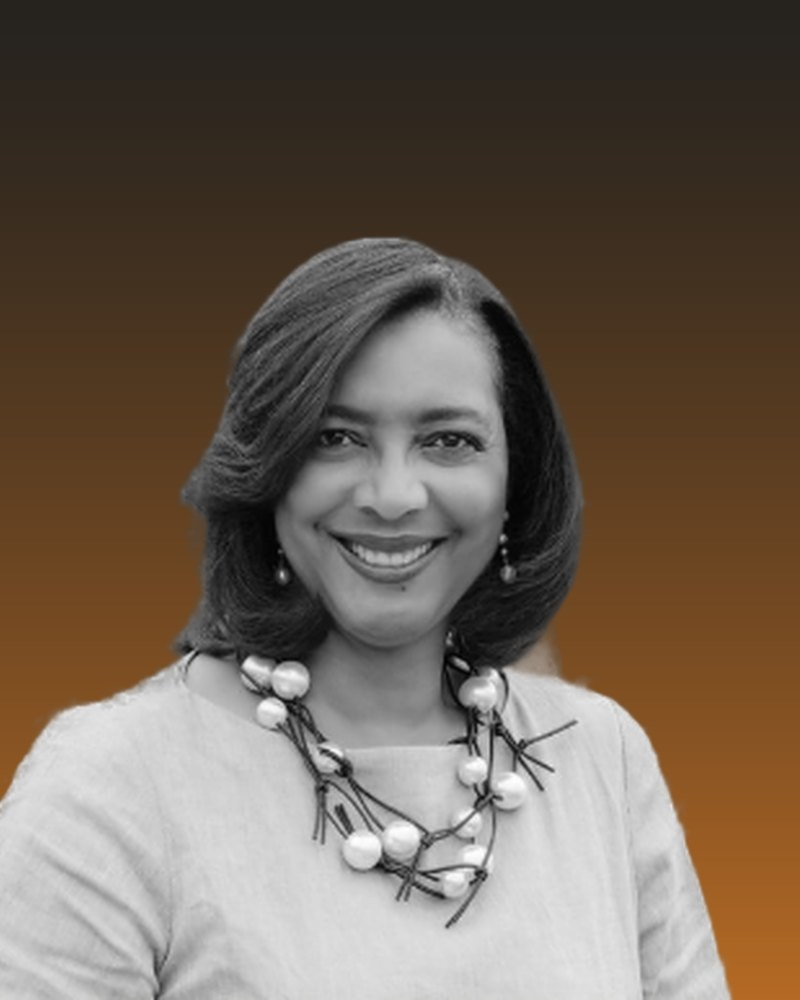
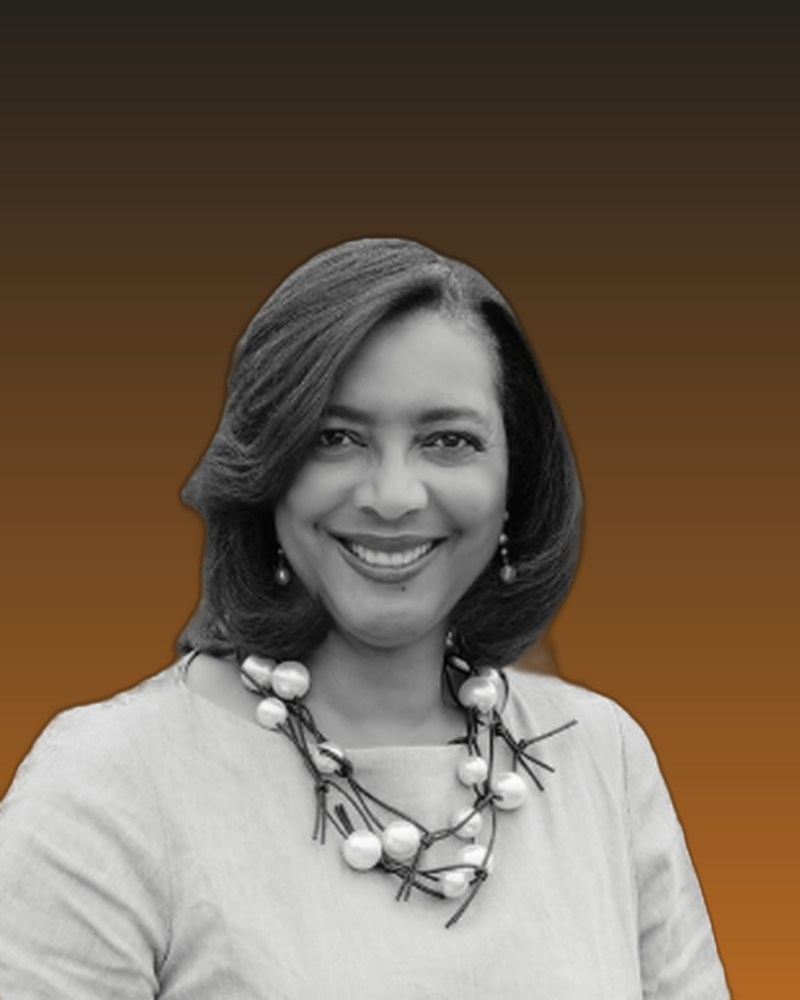
Hosts: re-trace Carmen/Carver edges, enlarge Chandler & Carver 15%; reorder advisors for inclusive mix; memory photos desaturate with color on hover

diff --git a/index.html b/index.html
@@ -1353,7 +1353,9 @@ section { padding-block: clamp(64px, 10vw, 128px); position: relative; }
   -webkit-backface-visibility: hidden; backface-visibility: hidden;
   box-shadow: var(--shadow-card);
 }
-.mem-front .mem-photo { position: absolute; inset: 0; width: 100%; height: 100%; object-fit: cover; filter: saturate(0.93) contrast(1.03); }
+.mem-front .mem-photo { position: absolute; inset: 0; width: 100%; height: 100%; object-fit: cover; filter: grayscale(1) contrast(1.04); transition: filter 650ms ease-in; }
+.mem-card:hover .mem-photo, .mem-card:focus-within .mem-photo { filter: grayscale(0) saturate(1.06) contrast(1.02); }
+@media (prefers-reduced-motion: reduce) { .mem-front .mem-photo { transition: filter 200ms linear; } }
 .mem-scrim { position: absolute; inset: 0; background: linear-gradient(180deg, rgba(14,9,5,0) 42%, rgba(14,9,5,0.55) 72%, rgba(14,9,5,0.88) 100%); }
 .mem-front-actions { position: absolute; top: 12px; right: 12px; display: flex; gap: 8px; z-index: 3; }
 .mem-front-name { position: absolute; left: 18px; right: 18px; bottom: 16px; z-index: 3; }
@@ -1923,26 +1925,10 @@ section { padding-block: clamp(64px, 10vw, 128px); position: relative; }
         </div>
       </article>
 
-      <article class="advisor" aria-label="Vicki Fabré, Board of Advisors">
-        <div class="ad-portrait" style="border: 1px solid var(--hairline); overflow: hidden;"><img src="images/vicki-fabre.jpg" alt="Vicki Fabré" loading="lazy" style="width:100%; height:100%; object-fit:cover;" /></div>
+      <article class="advisor" aria-label="Susan Simpson Heydt, Board of Advisors">
+        <div class="ad-portrait" style="border: 1px solid var(--hairline); overflow: hidden;"><img src="images/susan-simpson-heydt.jpg" alt="Susan Simpson Heydt" loading="lazy" style="width:100%; height:100%; object-fit:cover;" /></div>
         <div class="ad-meta">
-          <p class="ad-name">Vicki Fabré</p>
-          <p class="ad-role">Board of Advisors</p>
-        </div>
-      </article>
-
-      <article class="advisor" aria-label="Micki Flowers, Board of Advisors">
-        <div class="ad-portrait" style="border: 1px solid var(--hairline); overflow: hidden;"><img src="images/micki-flowers.jpg" alt="Micki Flowers" loading="lazy" style="width:100%; height:100%; object-fit:cover;" /></div>
-        <div class="ad-meta">
-          <p class="ad-name">Micki Flowers</p>
-          <p class="ad-role">Board of Advisors</p>
-        </div>
-      </article>
-
-      <article class="advisor" aria-label="Renee Rabb-Martin, Board of Advisors">
-        <div class="ad-portrait" style="border: 1px solid var(--hairline); overflow: hidden;"><img src="images/renee-rabb-martin.jpg" alt="Renee Rabb-Martin" loading="lazy" style="width:100%; height:100%; object-fit:cover;" /></div>
-        <div class="ad-meta">
-          <p class="ad-name">Renee Rabb-Martin</p>
+          <p class="ad-name">Susan Simpson Heydt</p>
           <p class="ad-role">Board of Advisors</p>
         </div>
       </article>
@@ -1955,10 +1941,10 @@ section { padding-block: clamp(64px, 10vw, 128px); position: relative; }
         </div>
       </article>
 
-      <article class="advisor" aria-label="Susan Simpson Heydt, Board of Advisors">
-        <div class="ad-portrait" style="border: 1px solid var(--hairline); overflow: hidden;"><img src="images/susan-simpson-heydt.jpg" alt="Susan Simpson Heydt" loading="lazy" style="width:100%; height:100%; object-fit:cover;" /></div>
+      <article class="advisor" aria-label="Renee Rabb-Martin, Board of Advisors">
+        <div class="ad-portrait" style="border: 1px solid var(--hairline); overflow: hidden;"><img src="images/renee-rabb-martin.jpg" alt="Renee Rabb-Martin" loading="lazy" style="width:100%; height:100%; object-fit:cover;" /></div>
         <div class="ad-meta">
-          <p class="ad-name">Susan Simpson Heydt</p>
+          <p class="ad-name">Renee Rabb-Martin</p>
           <p class="ad-role">Board of Advisors</p>
         </div>
       </article>
@@ -1967,6 +1953,22 @@ section { padding-block: clamp(64px, 10vw, 128px); position: relative; }
         <div class="ad-portrait" style="border: 1px solid var(--hairline); overflow: hidden;"><img src="images/katy-olweiler.jpg" alt="Katy Olweiler" loading="lazy" style="width:100%; height:100%; object-fit:cover;" /></div>
         <div class="ad-meta">
           <p class="ad-name">Katy Olweiler</p>
+          <p class="ad-role">Board of Advisors</p>
+        </div>
+      </article>
+
+      <article class="advisor" aria-label="Vicki Fabré, Board of Advisors">
+        <div class="ad-portrait" style="border: 1px solid var(--hairline); overflow: hidden;"><img src="images/vicki-fabre.jpg" alt="Vicki Fabré" loading="lazy" style="width:100%; height:100%; object-fit:cover;" /></div>
+        <div class="ad-meta">
+          <p class="ad-name">Vicki Fabré</p>
+          <p class="ad-role">Board of Advisors</p>
+        </div>
+      </article>
+
+      <article class="advisor" aria-label="Micki Flowers, Board of Advisors">
+        <div class="ad-portrait" style="border: 1px solid var(--hairline); overflow: hidden;"><img src="images/micki-flowers.jpg" alt="Micki Flowers" loading="lazy" style="width:100%; height:100%; object-fit:cover;" /></div>
+        <div class="ad-meta">
+          <p class="ad-name">Micki Flowers</p>
           <p class="ad-role">Board of Advisors</p>
         </div>
       </article>
